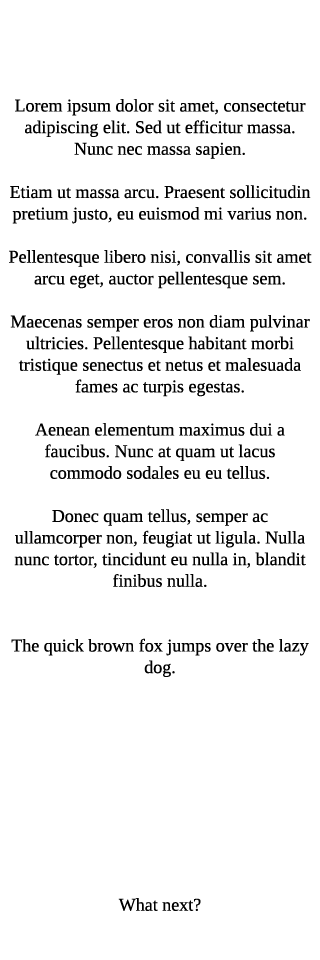
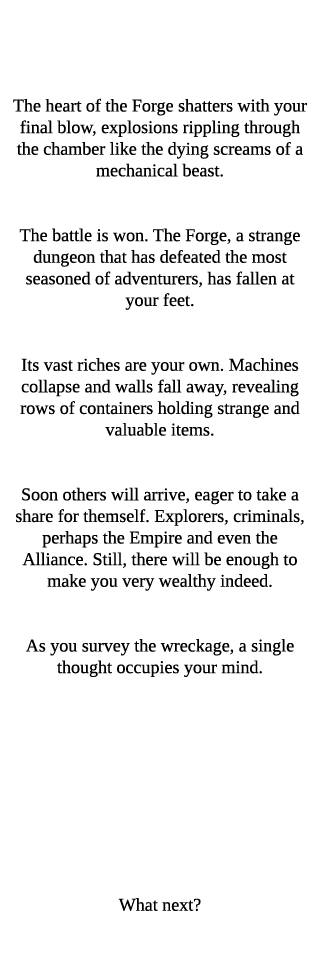
added ending text, fixed a few final bugs

Changed region(s): [[0.0312, 0.0938, 0.9688, 0.625], [0.0312, 0.6562, 0.9688, 0.7188]]

diff --git a/release/js/x_init.js b/release/js/x_init.js
@@ -6,7 +6,7 @@
  
 function x_init_preload()
 {
-	console.log("Starting Collapsar pre2.0...");
+	console.log("Starting Collapsar 2.0W...");
         
         // load some user preferences
         //TODO change this to not a cookie

diff --git a/release/data/soundinfo.js b/release/data/soundinfo.js
@@ -116,7 +116,7 @@ var data_soundinfo =
     "emerge_core": {
       "src": "sounds/fx18.ogg"
     },
-    "boss_destroy": {
+    "destroy_core": {
       "src": "sounds/bigexplosion.ogg"
     },
     "run": {

diff --git a/release/js/ending2.js b/release/js/ending2.js
@@ -78,6 +78,7 @@ function ending2_logic()
 	}
         else
         {
+            gamestate = STATE_TITLE;
             window.location.reload(); //broken
         }
 
